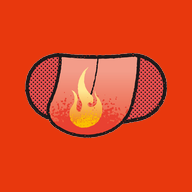
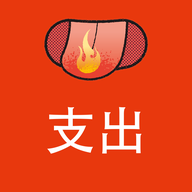
桌面圖示加上「支出」二字
紅底＋品牌圖徽在上、白色「支出」在下；內容往內縮，
iOS 裁圓角時不會切到圖徽。maskable 版另外縮進安全區。
sw.js v6，讓已加到主畫面的裝置重新抓圖示。

diff --git a/sw.js b/sw.js
@@ -9,7 +9,7 @@
  *
  * 改版時把 VERSION 加一，舊快取會在啟用時全部清掉。
  */
-var VERSION = 'cashbook-v5';
+var VERSION = 'cashbook-v6';
 var ASSETS = [
   './', './index.html', './manifest.json',
   './css/base.css',
